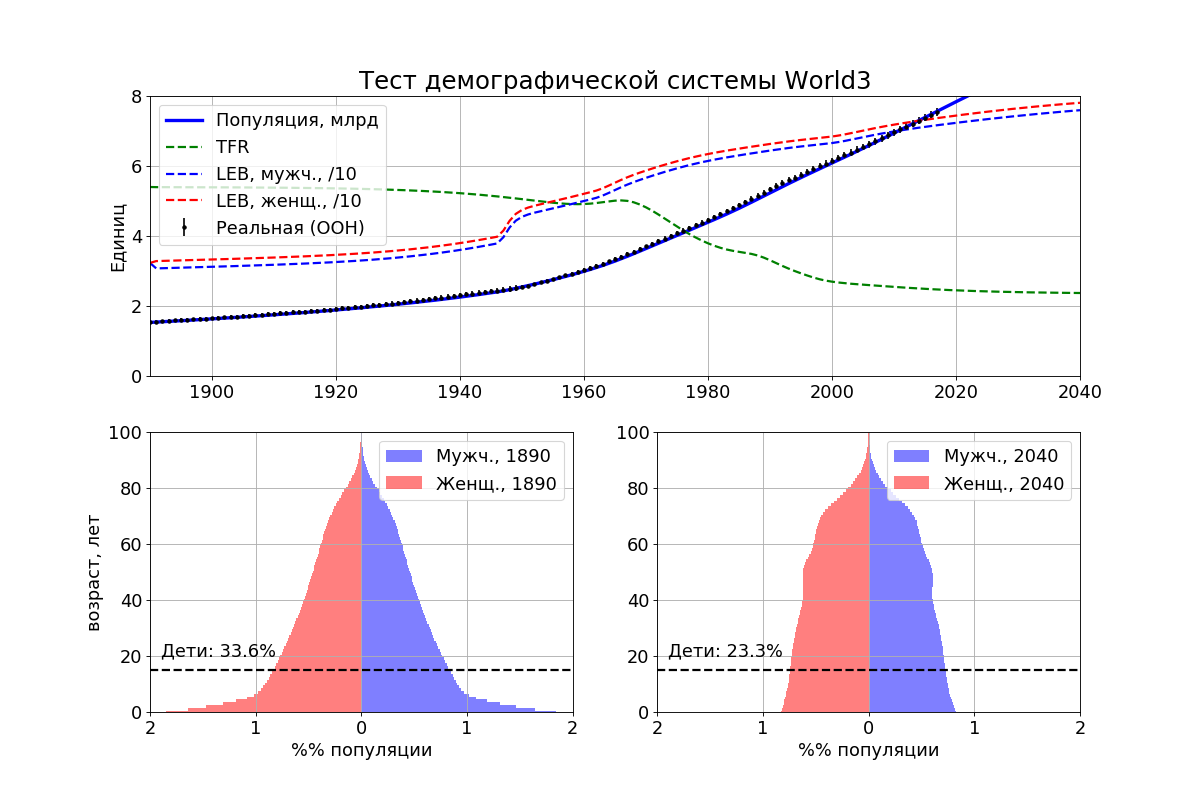
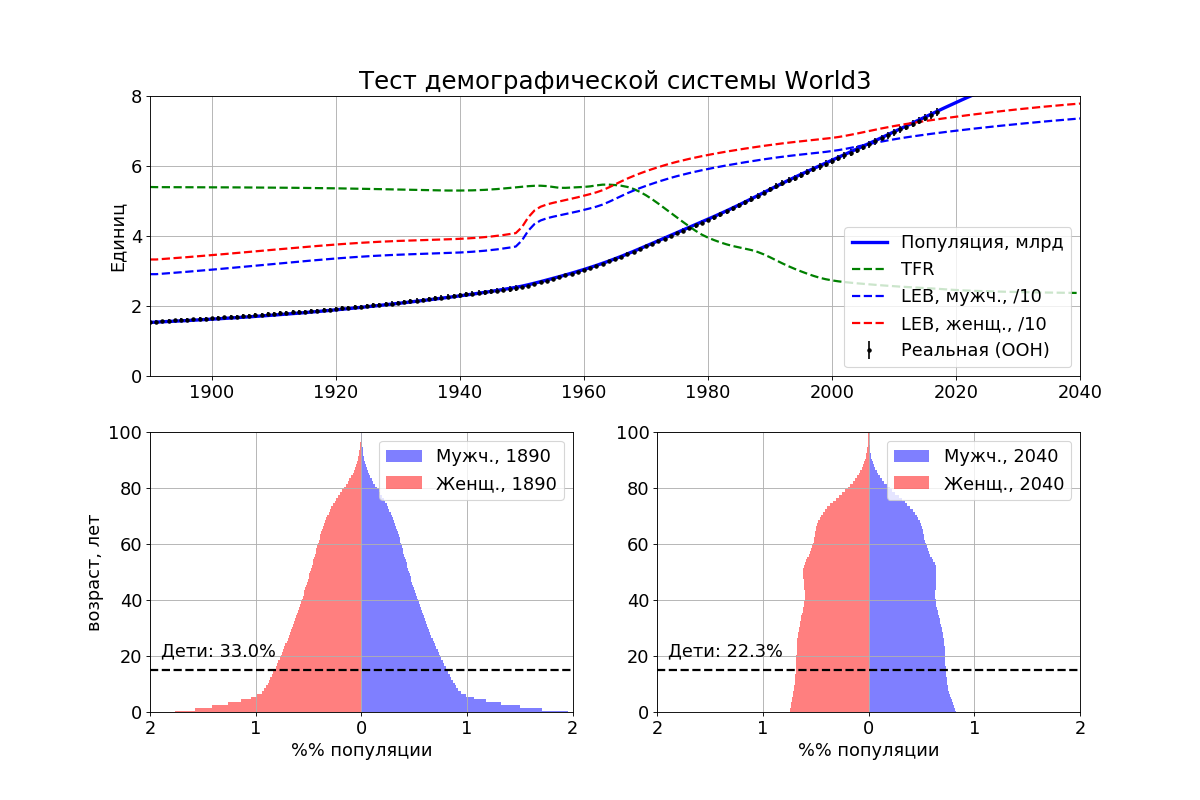
Chapter 19 proofreading, comments

diff --git a/Chapter 19/Population.py b/Chapter 19/Population.py
@@ -1,14 +1,14 @@
 from Utilities import *
 
-#
-# Describes population (as a Malthus-Velhurst equation solution AKA Shark Fin)
-# Peak_Year - peak population year
-# Peak_Value - peak population value
-# L_Slope - left slope
-# R_Slope - right slope
-# Additionaly creates three approximate UN solutions using linear combinations of Sigmoid and Hubbert functions 
-#
 class Population:
+    """
+    Describes population (as a Malthus-Velhurst equation solution AKA Shark Fin)
+    Peak_Year - peak population year
+    Peak_Value - peak population value
+    L_Slope - left slope
+    R_Slope - right slope
+    Additionaly creates three approximate UN solutions using linear combinations of Sigmoid and Hubbert functions 
+    """
     def __init__( self, Peak_Year=2057, Peak_Value=8000, L_Slope=0.028, R_Slope=0.080):
         self._Model0 = Linear_Combo()
         self._Model0.Wavelets += [Bathtub( -650,0.0025,2200,0.004,30,260,4250)]
@@ -83,16 +83,16 @@ class Population:
         tmp = self._Model0.Compute( t)
         return tmp
 
-#
-# Описывает популяцию матрицей Лесли с шагом 1 год
-# year0 - начальный год модели
-# population0 - общее население в начальном году
-# tfr - количество живых родов в среднем у женщщны
-# leb - ожидаемая продолжительность жизни при рождении
-# m2f - отношение мальчики:девочки при рождении
-#
 class Population_World3:
-    def __init__( self, year0=1890, population0=1530.880, tfr=5.4, leb=32, m2f=1.0):
+    """
+    Описывает популяцию матрицей Лесли с шагом 1 год
+    year0 - начальный год модели
+    population0 - общее население в начальном году
+    tfr - количество живых родов в среднем у женщщны
+    leb - ожидаемая продолжительность жизни при рождении
+    m2f - отношение мальчики:девочки при рождении
+    """
+    def __init__( self, year0=1890, population0=1530.880, tfr=5.4, leb=30, m2f=1.05):
         self.Year = year0
         self.Ages = np.linspace( 0,199, 200)
         self.Population_Male = np.ones( 200)
@@ -101,8 +101,8 @@ class Population_World3:
         self.Attrition_Model_Female = Bathtub( x0=5.0, s0=1.0, x1=80, s1=0.2, left=0.1, middle=0.01, right=0.20)
         self.Fertility_Model = Bathtub( x0=18.0, s0=1.0, x1=35, s1=0.4, left=0.0, middle=1, right=0)
         self.TFR = tfr
-        self.LEB_Male = leb
-        self.LEB_Female = leb
+        self.LEB_Male = leb-2
+        self.LEB_Female = leb+2
         self.M2F = m2f
         self.__expectancy__ = Linear_Combo()
         self.__expectancy__.Wavelets += [Hubbert( x0=-10.0, s0=0.064, s1=0.064, peak= 0.370)]
@@ -180,12 +180,12 @@ class Population_World3:
         self.Total = np.sum(self.Population_Male) + np.sum(self.Population_Female)
         return
 
-#
-# Рrovides a programmatic interface to the UN country statistical data and future estimates
-# The current statistics is from 1950 to 2017.
-# The future estimates are from 2018 till 2100.
-#
 class Entity_UN:
+    """
+    Рrovides a programmatic interface to the UN country statistical data and future estimates
+    The current statistics is from 1950 to 2017.
+    The future estimates are from 2018 till 2100.
+    """
     def __init__( self, time, estimate, low, med, high):
         estimate = estimate.strip()
         low = low.strip()
@@ -1014,4 +1014,49 @@ class UN_Fertility():
         self.Group_4 += ["Switzerland"]
         self.Group_4 += ["Ukraine"]
         self.Group_4 += ["United Kingdom"]
+
+        self.Regions = ["Africa"]
+        self.Regions += ["Asia"]
+        self.Regions += ["Caribbean"]
+        self.Regions += ["Central America"]
+        self.Regions += ["Central Asia"]
+        self.Regions += ["Eastern Africa"]
+        self.Regions += ["Eastern Asia"]
+        self.Regions += ["Eastern Europe"]
+        self.Regions += ["Europe"]
+        self.Regions += ["High-income countries"]
+        self.Regions += ["Latin America and the Caribbean"]
+        self.Regions += ["Least developed countries"]
+        self.Regions += ["Less developed regions, excluding China"]
+        self.Regions += ["Less developed regions, excluding least developed countries"]
+        self.Regions += ["Less developed regions"]
+        self.Regions += ["Low-income countries"]
+        self.Regions += ["Lower-middle-income countries"]
+        self.Regions += ["Middle Africa"]
+        self.Regions += ["Middle-income countries"]
+        self.Regions += ["More developed regions"]
+        self.Regions += ["Northern Africa"]
+        self.Regions += ["Northern America"]
+        self.Regions += ["Northern Europe"]
+        self.Regions += ["Oceania"]
+        self.Regions += ["South America"]
+        self.Regions += ["South-Central Asia"]
+        self.Regions += ["South-Eastern Asia"]
+        self.Regions += ["Southern Africa"]
+        self.Regions += ["Southern Asia"]
+        self.Regions += ["Southern Europe"]
+        self.Regions += ["Sub-Saharan Africa"]
+        self.Regions += ["Upper-middle-income countries"]
+        self.Regions += ["Western Africa"]
+        self.Regions += ["Western Asia"]
+        self.Regions += ["Western Europe"]
+        self.Regions += ["World"]
+
+        self.Areas = ["Africa"]
+        self.Areas += ["Asia"]
+        self.Areas += ["Europe"]
+        self.Areas += ["Latin America and the Caribbean"]
+        self.Areas += ["Northern America"]
+        self.Areas += ["Oceania"]
+        self.Areas += ["World"]
         return

diff --git a/Chapter 19/Test_01_Population_World3.py b/Chapter 19/Test_01_Population_World3.py
@@ -2,17 +2,24 @@ from Population import *
 
 P0 = Population()
 P1 = Population_World3()
+
 tfr = Linear_Combo()
 tfr.Wavelets += [Sigmoid( x0=1975.000, s0=0.07740, left=5.400, right=2.350)]
 tfr.Wavelets += [Hubbert( x0=1967.000, s0=0.29510, s1=0.24133, peak=0.631)]
 tfr.Wavelets += [Hubbert( x0=1987.000, s0=0.43047, s1=0.43047, peak=0.211)]
 tfr.Wavelets += [Hubbert( x0=1998.000, s0=0.53144, s1=0.31381, peak=-0.074)]
+tfr.Wavelets += [Hubbert( x0=1955.000, s0=1.00000, s1=1.00000, peak=-0.057)]
+tfr.Wavelets += [Hubbert( x0=1962.000, s0=1.00000, s1=1.00000, peak=0.048)]
+tfr.Wavelets += [Hubbert( x0=1978.000, s0=1.00000, s1=1.00000, peak=-0.030)]
+tfr.Wavelets += [Hubbert( x0=2014.000, s0=0.59049, s1=0.59049, peak=0.017)]
+tfr.Wavelets += [Hubbert( x0=1955, s0=0.2, s1=0.09, peak=0.5)]
+
 leb = Linear_Combo()
-leb.Wavelets += [Sigmoid( x0=1965.000, s0=0.03183, left=28.000, right=80.5)]
-leb.Wavelets += [Hubbert( x0=1960.656, s0=0.04239, s1=0.47351, peak=-1.814)]
-leb.Wavelets += [Hubbert( x0=1977.095, s0=0.20179, s1=0.18345, peak=1.174)]
-leb.Wavelets += [Hubbert( x0=1999.712, s0=0.34519, s1=0.34519, peak=-0.865)]
-leb.Wavelets += [Hubbert( x0=1948, s0=0.05, s1=1, peak=-7)]
+leb.Wavelets  = [Sigmoid( x0=1965.000, s0=0.03183, left=26.500, right=80.400)]
+leb.Wavelets += [Hubbert( x0=1975.000, s0=0.18500, s1=0.13500, peak=1.632)]
+leb.Wavelets += [Hubbert( x0=2000.000, s0=0.28000, s1=0.31000, peak=-1.000)]
+leb.Wavelets += [Hubbert( x0=1961.000, s0=0.15009, s1=0.47500, peak=-1.700)]
+leb.Wavelets += [Hubbert( x0=1948, s0=0.1, s1=1, peak=-7)]
 
 Year = []
 Total = []
@@ -22,6 +29,7 @@ LEB_Actual_Female = []
 LEB_Apparent_Male = []
 LEB_Apparent_Female = []
 Pops = []
+Male_Female_Ratio = []
 for i in range(1890, 2041):
     Year += [i]
     Total += [P1.Total]
@@ -30,10 +38,13 @@ for i in range(1890, 2041):
     LEB_Apparent_Male += [P1.LEB_Apparent_Male]
     LEB_Apparent_Female += [P1.LEB_Apparent_Female]
     TFR_Actual += [P1.TFR]
+    Male_Female_Ratio += [np.sum(P1.Population_Male)*100/np.sum(P1.Population_Female)]
     Pops += [(np.array(P1.Population_Male),np.array(P1.Population_Female))]
-    P1.Compute_Next_Year(tfr.Compute(i), leb_male=leb.Compute(i), leb_female=leb.Compute(i)+2)
+    P1.Compute_Next_Year(tfr.Compute(i), leb_male=leb.Compute(i)-2, leb_female=leb.Compute(i)+2)
 Year = np.array(Year)
 Total = np.array(Total)
+LEB_Actual_Male[0] = LEB_Actual_Male[1]
+LEB_Actual_Female[0] += LEB_Actual_Female[1]
 Absolute_Growth = np.array(Total)
 Absolute_Growth[1:] -= Total[:-1] 
 Absolute_Growth[0] = Absolute_Growth[1]
@@ -60,6 +71,7 @@ ax1.set_ylabel("миллионов")
 ax1.grid(True)
 ax1.legend(loc=0)
 
+#ax2.plot( Year, Male_Female_Ratio, "-", lw=2, color="m", label="Отношение мужч.:женщ.")
 ax2.plot( Year, LEB_Actual_Male, "-", lw=2, color="b", label="LEB, мужч.")
 ax2.plot( Year, LEB_Apparent_Male, "--", lw=2, color="b")
 ax2.plot( Year, LEB_Actual_Female, "-", lw=2, color="r", label="LEB, женщ.")
@@ -77,9 +89,9 @@ ax2.grid(True)
 ax2.legend(loc=0)
 
 ax3.plot( Year, TFR_Actual, "-", lw=2, color="g", label="TFR")
-ax3.plot( [1969, 1969], [1,4.9], "--", lw=1, color="k")
+ax3.plot( [1969, 1969], [1,5.5], "--", lw=1, color="k")
 ax3.text( 1970, 0.8, '"Одна семья - два ребёнка" в КНР')
-ax3.plot( [1979, 1979], [2,3.9], "--", lw=1, color="k")
+ax3.plot( [1979, 1979], [2,4.5], "--", lw=1, color="k")
 ax3.text( 1980, 1.8, '"Одна семья - один ребёнок" в КНР')
 ax3.plot( [2016, 2016], [2.5,3.5], "--", lw=1, color="k")
 ax3.text( 1980, 4.0, 'Возврат к "Одна семья - два ребёнка"')

diff --git a/Chapter 19/Test_03_Population_World3.py b/Chapter 19/Test_03_Population_World3.py
@@ -2,17 +2,24 @@ from Population import *
 
 P0 = Population()
 P1 = Population_World3()
+
 tfr = Linear_Combo()
 tfr.Wavelets += [Sigmoid( x0=1975.000, s0=0.07740, left=5.400, right=2.350)]
 tfr.Wavelets += [Hubbert( x0=1967.000, s0=0.29510, s1=0.24133, peak=0.631)]
 tfr.Wavelets += [Hubbert( x0=1987.000, s0=0.43047, s1=0.43047, peak=0.211)]
 tfr.Wavelets += [Hubbert( x0=1998.000, s0=0.53144, s1=0.31381, peak=-0.074)]
+tfr.Wavelets += [Hubbert( x0=1955.000, s0=1.00000, s1=1.00000, peak=-0.057)]
+tfr.Wavelets += [Hubbert( x0=1962.000, s0=1.00000, s1=1.00000, peak=0.048)]
+tfr.Wavelets += [Hubbert( x0=1978.000, s0=1.00000, s1=1.00000, peak=-0.030)]
+tfr.Wavelets += [Hubbert( x0=2014.000, s0=0.59049, s1=0.59049, peak=0.017)]
+tfr.Wavelets += [Hubbert( x0=1955, s0=0.2, s1=0.09, peak=0.5)]
+
 leb = Linear_Combo()
-leb.Wavelets += [Sigmoid( x0=1965.000, s0=0.03183, left=28.000, right=80.5)]
-leb.Wavelets += [Hubbert( x0=1960.656, s0=0.04239, s1=0.47351, peak=-1.814)]
-leb.Wavelets += [Hubbert( x0=1977.095, s0=0.20179, s1=0.18345, peak=1.174)]
-leb.Wavelets += [Hubbert( x0=1999.712, s0=0.34519, s1=0.34519, peak=-0.865)]
-leb.Wavelets += [Hubbert( x0=1945, s0=0.05, s1=1, peak=-7)]
+leb.Wavelets  = [Sigmoid( x0=1965.000, s0=0.03183, left=26.500, right=80.400)]
+leb.Wavelets += [Hubbert( x0=1975.000, s0=0.18500, s1=0.13500, peak=1.632)]
+leb.Wavelets += [Hubbert( x0=2000.000, s0=0.28000, s1=0.31000, peak=-1.000)]
+leb.Wavelets += [Hubbert( x0=1961.000, s0=0.15009, s1=0.47500, peak=-1.700)]
+leb.Wavelets += [Hubbert( x0=1948, s0=0.1, s1=1, peak=-7)]
 
 Year = []
 Total = []
@@ -27,11 +34,13 @@ for i in range(1890, 2041):
     LEB_Actual_Female += [P1.LEB_True_Female]
     TFR_Actual += [P1.TFR]
     Pops += [(np.array(P1.Population_Male),np.array(P1.Population_Female))]
-    P1.Compute_Next_Year(tfr.Compute(i), leb_male=leb.Compute(i), leb_female=leb.Compute(i)+2)
+    P1.Compute_Next_Year(tfr.Compute(i), leb_male=leb.Compute(i)-2, leb_female=leb.Compute(i)+2)
 Year = np.array(Year)
 Total = np.array(Total)
 LEB_Actual_Male = np.array(LEB_Actual_Male)
 LEB_Actual_Female = np.array(LEB_Actual_Female)
+LEB_Actual_Male[0] = LEB_Actual_Male[1]
+LEB_Actual_Female[0] = LEB_Actual_Female[1]
 
 fig = plt.figure( figsize=(15,10))
 gs = plt.GridSpec(2, 2, height_ratios=[1,1], width_ratios=[1,1]) 

diff --git a/Chapter 19/Test_02_Population_World3.py b/Chapter 19/Test_02_Population_World3.py
@@ -3,17 +3,24 @@ from Predictions import *
 P0 = Population()
 BAU_1972 = Interpolation_BAU_1972()
 P1 = Population_World3()
+
 tfr = Linear_Combo()
 tfr.Wavelets += [Sigmoid( x0=1975.000, s0=0.07740, left=5.400, right=2.350)]
 tfr.Wavelets += [Hubbert( x0=1967.000, s0=0.29510, s1=0.24133, peak=0.631)]
 tfr.Wavelets += [Hubbert( x0=1987.000, s0=0.43047, s1=0.43047, peak=0.211)]
 tfr.Wavelets += [Hubbert( x0=1998.000, s0=0.53144, s1=0.31381, peak=-0.074)]
+tfr.Wavelets += [Hubbert( x0=1955.000, s0=1.00000, s1=1.00000, peak=-0.057)]
+tfr.Wavelets += [Hubbert( x0=1962.000, s0=1.00000, s1=1.00000, peak=0.048)]
+tfr.Wavelets += [Hubbert( x0=1978.000, s0=1.00000, s1=1.00000, peak=-0.030)]
+tfr.Wavelets += [Hubbert( x0=2014.000, s0=0.59049, s1=0.59049, peak=0.017)]
+tfr.Wavelets += [Hubbert( x0=1955, s0=0.2, s1=0.09, peak=0.5)]
+
 leb = Linear_Combo()
-leb.Wavelets += [Sigmoid( x0=1965.000, s0=0.03183, left=28.000, right=80.5)]
-leb.Wavelets += [Hubbert( x0=1960.656, s0=0.04239, s1=0.47351, peak=-1.814)]
-leb.Wavelets += [Hubbert( x0=1977.095, s0=0.20179, s1=0.18345, peak=1.174)]
-leb.Wavelets += [Hubbert( x0=1999.712, s0=0.34519, s1=0.34519, peak=-0.865)]
-leb.Wavelets += [Hubbert( x0=1948, s0=0.05, s1=1, peak=-7)]
+leb.Wavelets  = [Sigmoid( x0=1965.000, s0=0.03183, left=26.500, right=80.400)]
+leb.Wavelets += [Hubbert( x0=1975.000, s0=0.18500, s1=0.13500, peak=1.632)]
+leb.Wavelets += [Hubbert( x0=2000.000, s0=0.28000, s1=0.31000, peak=-1.000)]
+leb.Wavelets += [Hubbert( x0=1961.000, s0=0.15009, s1=0.47500, peak=-1.700)]
+leb.Wavelets += [Hubbert( x0=1948, s0=0.1, s1=1, peak=-7)]
 
 Year = []
 Total = []
@@ -26,7 +33,7 @@ for i in range(1890, 2041):
     Births += [P1.nBirth]
     Deaths += [P1.nDeath]
     Pops += [(np.array(P1.Population_Male),np.array(P1.Population_Female))]
-    P1.Compute_Next_Year(tfr.Compute(i), leb_male=leb.Compute(i), leb_female=leb.Compute(i)+2)
+    P1.Compute_Next_Year(tfr.Compute(i), leb_male=leb.Compute(i)-2, leb_female=leb.Compute(i)+2)
 Year = np.array(Year)
 Total = np.array(Total)
 Absolute_Growth = np.array(Total)

diff --git a/Chapter 19/Test_07_LEB_TFR_World_Data.py b/Chapter 19/Test_07_LEB_TFR_World_Data.py
@@ -72,20 +72,22 @@ def Plot_Group( dest, group_name, UNF, UNFGroup, Population, pop_scale):
         total_P[0], total_P[-1],
         total_TFR[0], total_TFR[-1],
         total_LEB[0], total_LEB[-1], total_P[-1]/total_P[0]))
-    f.write( "{:s}\t{:.1f}\t{:.1f}\t{:.1f}\t{:.1f}\t{:.1f}\t{:.1f}\t{:.2f}\n".format( "TOTAL Group",
-        total_P[0], total_P[-1],
-        total_TFR[0], total_TFR[-1],
-        total_LEB[0], total_LEB[-1], total_P[-1]/total_P[0]))
+    if group_name != "Regions_Combined":
+        f.write( "{:s}\t{:.1f}\t{:.1f}\t{:.1f}\t{:.1f}\t{:.1f}\t{:.1f}\t{:.2f}\n".format( "TOTAL Group",
+            total_P[0], total_P[-1],
+            total_TFR[0], total_TFR[-1],
+            total_LEB[0], total_LEB[-1], total_P[-1]/total_P[0]))
+        Plot_Country( dest, group_name, yt, total_TFR, yl, total_LEB, yp, total_P, pop_scale)
     f.close()
-    Plot_Country( dest, group_name, yt, total_TFR, yl, total_LEB, yp, total_P, pop_scale)
     return
 
 Population = Population_UN()
 UNF = UN_Fertility()
 Plot_Group( "./Exceptions/", "Exceptions_Combined", UNF, UNF.Exceptions, Population, 20)
 Plot_Group( "./Phase_2a/", "Phase_2a_Combined", UNF, UNF.Group_2a, Population, 20)
-#Plot_Group( "./Phase_2b/", "Phase_2b_Combined", UNF, UNF.Group_2b, Population, 10)
-#Plot_Group( "./Phase_3/", "Phase_3_Combined", UNF, UNF.Group_3, Population, 6)
-#Plot_Group( "./Phase_4/", "Phase_4_Combined", UNF, UNF.Group_4, Population, 2)
+Plot_Group( "./Phase_2b/", "Phase_2b_Combined", UNF, UNF.Group_2b, Population, 10)
+Plot_Group( "./Phase_3/", "Phase_3_Combined", UNF, UNF.Group_3, Population, 6)
+Plot_Group( "./Phase_4/", "Phase_4_Combined", UNF, UNF.Group_4, Population, 2)
+Plot_Group( "./Regions/", "Regions_Combined", UNF, UNF.Regions, Population, 10)
 
 #if InteractiveModeOn: plt.show(True)

diff --git a/Chapter 19/Test_08_LEB_TFR_World_Data.py b/Chapter 19/Test_08_LEB_TFR_World_Data.py
@@ -1,0 +1,53 @@
+from Population import *
+
+def Plot_Area( area, area_name, ax1, ax2, ax3, UNF, Population, col="k"):
+    entity = Population.GetEntity( area)
+    if "not found" in entity.Name:
+        print( area + " not found")
+        return
+    yp = entity.Time[150:216]
+    pop = entity.Population[150:216]
+    yt,tfr = UNF.Countries[area].Get_TFR_vs_Year()
+    yl,leb = UNF.Countries[area].Get_LEB_vs_Year()
+    ax1.plot( yt,tfr,"-",color=col)
+    ax2.plot( yl,leb,"-",color=col)
+    ax3.plot( yp,pop,"-",color=col, label=area_name)    
+    return
+
+Population = Population_UN()
+UNF = UN_Fertility()
+limits = 1950, 2015
+
+fig = plt.figure( figsize=(15,15))
+gs = plt.GridSpec(3, 1, height_ratios=[1,1,1]) 
+ax1 = plt.subplot(gs[0])
+ax2 = plt.subplot(gs[1])
+ax3 = plt.subplot(gs[2])
+
+Plot_Area( UNF.Areas[1], "Азия", ax1, ax2, ax3, UNF, Population, "y") 
+Plot_Area( UNF.Areas[0], "Африка", ax1, ax2, ax3, UNF, Population, "k") 
+Plot_Area( UNF.Areas[2], "Европа", ax1, ax2, ax3, UNF, Population, "b") 
+Plot_Area( UNF.Areas[3], "Латинск. Америка", ax1, ax2, ax3, UNF, Population, "r") 
+Plot_Area( UNF.Areas[4], "Сев. Америка", ax1, ax2, ax3, UNF, Population, "g") 
+Plot_Area( UNF.Areas[5], "Океания", ax1, ax2, ax3, UNF, Population, "m") 
+
+ax1.set_title("Изменение LEB and TFR", fontsize=22)
+ax1.set_xlim( limits)
+ax1.set_ylim( 0, 9)
+ax1.set_ylabel("TFR")
+ax1.grid(True)
+
+ax2.set_xlim( limits)
+ax2.set_ylim( 20, 90)
+ax2.set_ylabel("LEB")
+ax2.grid(True)
+
+ax3.set_xlim( limits)
+ax3.set_ylim( 0, 4000)
+ax3.set_xlabel("год")
+ax3.set_ylabel("миллионов")
+ax3.legend( loc=0)
+ax3.grid(True)
+plt.savefig( "./Graphs/figure_19_08.png")
+
+if InteractiveModeOn: plt.show(True)
